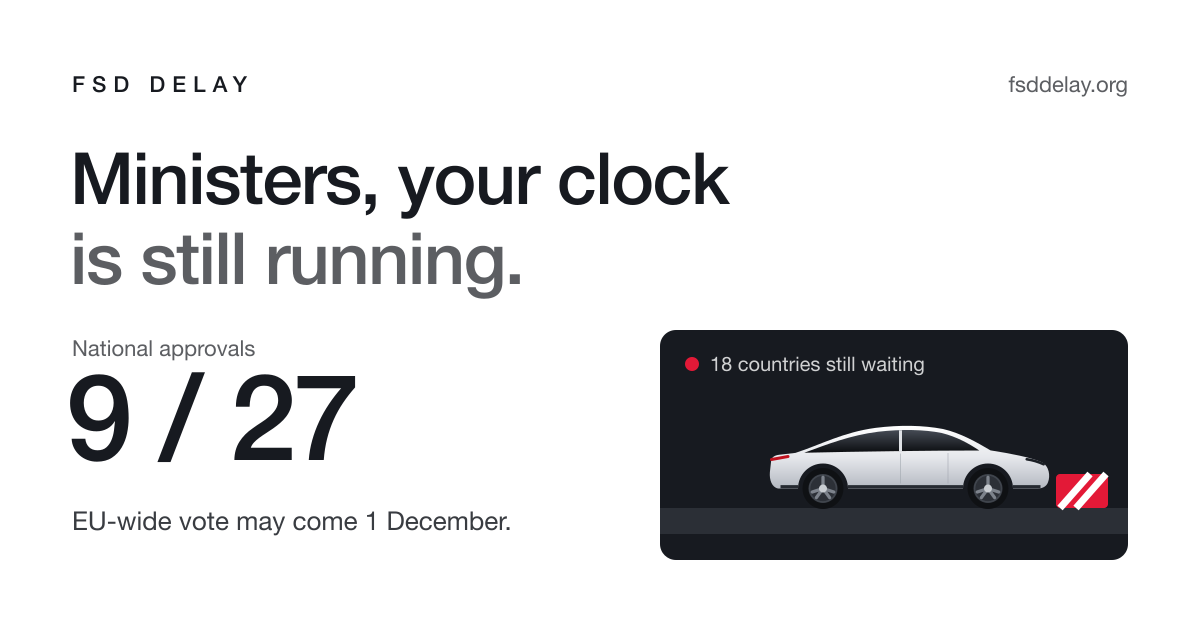
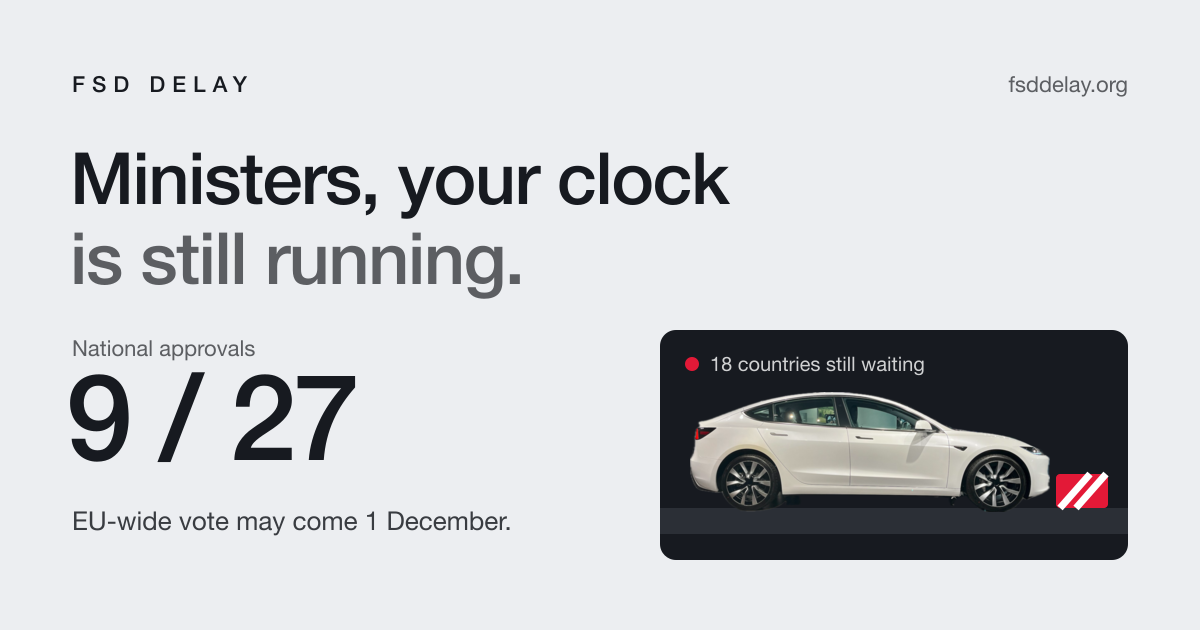
Use a real Model 3 photo for the car and darken the page.
The drawn car is replaced by a cut-out CC0 Wikimedia Commons photo of a
2023 Model 3, also used in the favicon and share card. The hero is now a
dark block on a light grey page, so the site reads less white.

Changed region(s): [[0.555, 0.6032, 0.8942, 0.8143]]

diff --git a/src/styles/global.css b/src/styles/global.css
@@ -1,8 +1,8 @@
 :root {
-	--bg: #ffffff;
+	--bg: #eceef1;
 	--bg-deep: #f4f4f4;
 	--panel: #ffffff;
-	--panel-strong: #f4f4f4;
+	--panel-strong: #f4f5f7;
 	--line: rgba(23, 26, 32, 0.1);
 	--text: #171a20;
 	--muted: #393c41;
@@ -43,7 +43,7 @@ a { color: inherit; }
 	justify-content: space-between;
 	gap: 1rem;
 	padding: 0.85rem clamp(1rem, 3vw, 2.5rem);
-	background: rgba(255, 255, 255, 0.86);
+	background: rgba(236, 238, 241, 0.86);
 	backdrop-filter: saturate(180%) blur(12px);
 	-webkit-backdrop-filter: saturate(180%) blur(12px);
 }
@@ -80,8 +80,18 @@ section[id] { scroll-margin-top: 4.5rem; }
 }
 .hero { display: grid; grid-template-columns: minmax(0, 1.2fr) minmax(18rem, 0.95fr); gap: 1.5rem; padding: 1.75rem; }
 .hero--clock {
-	background: var(--panel);
+	--text: #ffffff;
+	--muted: #d0d1d2;
+	--soft: #8e9095;
+	--warning: #a2a4a8;
+	--line: rgba(255, 255, 255, 0.12);
+	color: var(--text);
+	border-color: transparent;
+	background: #171a20;
 }
+.hero--clock .counter-wall { background: #22252c; }
+.hero--clock .status__tick { background: rgba(255, 255, 255, 0.14); }
+.hero--clock .status__tick.is-on { background: var(--ok); }
 .hero__copy h1, .section-head h2, .method__title, .sources__title {
 	margin: 0;
 	font-family: var(--display-font);
@@ -285,14 +295,14 @@ section[id] { scroll-margin-top: 4.5rem; }
 	animation: counterHit 820ms ease;
 }
 .impact-stage {
-	--impact-run: calc(100cqw - 9.5rem - 8.6rem - 5.2rem);
+	--impact-run: calc(100cqw - 9.5rem - 10rem - 5.2rem);
 	container-type: inline-size;
 	position: relative;
 	height: 9.6rem;
 	margin: 0.1rem 0 0;
 	border: 1px solid rgba(255, 255, 255, 0.08);
 	border-radius: var(--radius-md);
-	background: linear-gradient(180deg, #22252c 0%, #1b1e24 100%);
+	background: linear-gradient(180deg, #1b1e24 0%, #15171c 100%);
 	overflow: hidden;
 }
 .impact-stage::after {
@@ -368,13 +378,13 @@ section[id] { scroll-margin-top: 4.5rem; }
 .impact-stage__car {
 	position: absolute;
 	left: 9.5rem;
-	bottom: 0.95rem;
-	width: 8.6rem;
+	bottom: 1rem;
+	width: 10rem;
 	height: auto;
-	filter: drop-shadow(0 0.35rem 0.5rem rgba(0, 0, 0, 0.35));
+	display: block;
+	filter: drop-shadow(0 0.3rem 0.35rem rgba(0, 0, 0, 0.5));
 	transform-origin: 80% 90%;
 }
-.impact-stage__car svg { display: block; width: 100%; height: auto; }
 .impact-stage__burst {
 	position: absolute;
 	right: 4.45rem;

diff --git a/src/data/eu.ts b/src/data/eu.ts
@@ -203,6 +203,7 @@ export const sources = [
 	{ label: "Eurostat demo_gind", href: "https://ec.europa.eu/eurostat/api/dissemination/statistics/1.0/data/demo_gind?indic_de=JAN&time=2025", note: "Population on 1 January 2025." },
 	{ label: "Eurostat road_eqs_zev", href: "https://ec.europa.eu/eurostat/api/dissemination/statistics/1.0/data/road_eqs_zev?time=2024&mot_nrg=ELC&vehicle=CAR&unit=PC", note: "Share of battery-electric passenger cars in the national fleet, 2024." },
 	{ label: "Eurostat tran_sf_roadus", href: "https://ec.europa.eu/eurostat/api/dissemination/statistics/1.0/data/tran_sf_roadus?time=2023&sex=T&age=TOTAL&pers_cat=TOTAL&unit=NR", note: "Road traffic fatalities by country, 2023." },
+	{ label: "Car photo: Tesla Model 3 (2023), Kazyakuruma, Wikimedia Commons (CC0)", href: "https://commons.wikimedia.org/wiki/File:Tesla_Model_3_(2023),_long_range,_Japan,_left-side.jpg", note: "Public-domain photo used for the car in the live counter, favicon, and share image, cut out and mirrored." },
 ];
 
 export function getFleetScope(key: FleetScopeKey) {
